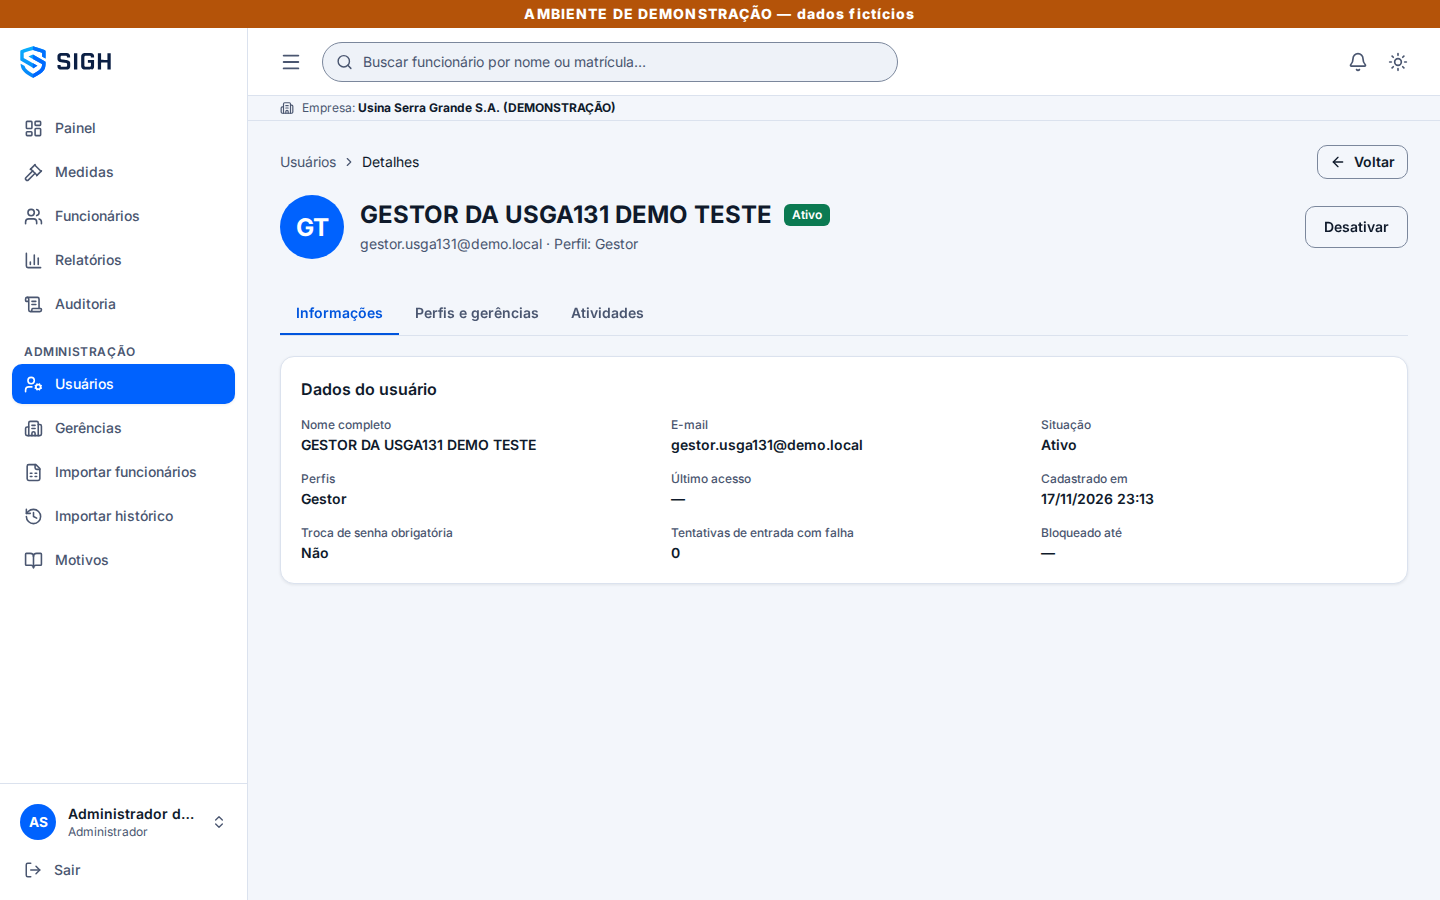
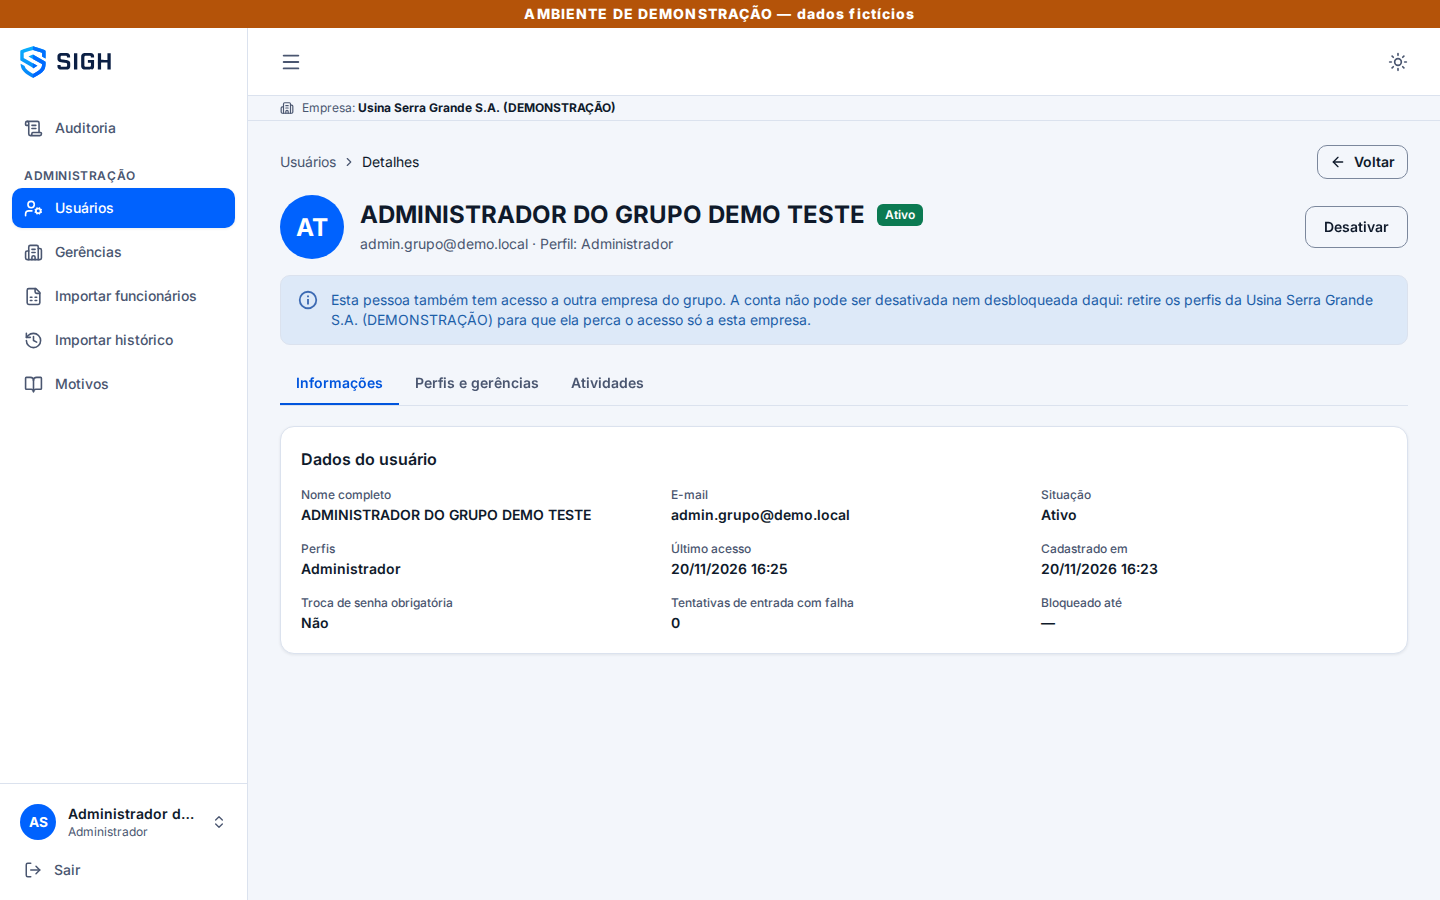
docs: README (matriz de perfis, conta sem senha, primeiro administrador, recuperação) e capturas do administrador; tsbuildinfo no .gitignore

diff --git a/README.md b/README.md
@@ -130,9 +130,13 @@ Abra **http://localhost:8080** (Chrome ou Edge). A senha dos usuários abaixo é
 | `preposto@demo.local` | USGA · RH – Registro + RH – Aprovador | A fila de aprovação e as próprias medidas (não aprova as que ele mesmo registrar) |
 | `admin.usga@demo.local`, `auxiliar.usga@demo.local`, `encarregado.usga@demo.local`, `gestor.usga131@demo.local` | USGA · Administrador, RH – Registro, RH – Aprovador, Gestor da USGA131 | Os mesmos papéis acima, com o nome da empresa na faixa do topo |
 | `admin.grupo@demo.local` | **USGA e Trapiche** · Administrador | O seletor **Empresa**; em **Todas**, **Usuários** com a coluna Empresa e as telas de importação só para consulta (lotes das duas empresas com a coluna Empresa e o aviso **"Selecione uma empresa"**, sem envio de arquivo) |
-| `admin.trap@demo.local` | Trapiche · Administrador | Só os usuários e os dados da Trapiche; em **Usuários → Novo usuário** com o e-mail de alguém da USGA, a opção **Vincular este usuário à Trapiche** |
+| `admin.trap@demo.local` | Trapiche · Administrador | Só os usuários da Trapiche; em **Usuários → Novo usuário** com o e-mail de alguém da USGA, a opção **Vincular este usuário à Trapiche** |
 | `auxiliar.trap@demo.local`, `encarregado.trap@demo.local`, `gestor.trap131@demo.local` | Trapiche · RH – Registro, RH – Aprovador, Gestor da TRAP131 | As medidas e os funcionários fictícios da Trapiche (TRAP131/TRAP132) |
-| `admin@demo.local` | USGA · Administrador | Pede a troca de senha no primeiro acesso; o **Painel** e, em **Administração**, Usuários, Gerências, Importar funcionários, Importar histórico e Motivos. Não registra nem aprova medidas |
+| `admin@demo.local` | USGA · Administrador | Ninguém conhece a senha: no primeiro uso, abra no Mailpit o e-mail **"Acesso de administrador no SIGH"** e defina a senha pelo link. Depois, **Auditoria de acesso** e, em **Administração**, Usuários, Gerências, Importar funcionários, Importar histórico e Motivos. **Nenhuma** tela de funcionários, medidas, painel ou relatórios |
+
+Os administradores (`admin@`, `admin.usga@`, `admin.grupo@`, `admin.trap@`) só gerenciam **acessos**: não veem
+funcionários, medidas, anexos, painel, relatórios, exportações, avisos nem a auditoria de medidas (a API responde 403).
+Continuam importando funcionários e histórico.
 
 Os dados de demonstração da **USGA** têm 40 funcionários fictícios, o **histórico disciplinar fictício** importado da
 planilha de penalidades (14 registros, com o selo "Histórico importado") e 8 medidas do SIGH em todos os estados
@@ -207,22 +211,23 @@ Segredos **não** ficam nos `appsettings*.json`. Sem configuração válida a AP
 | `ConnectionStrings:DefaultConnection` | sim | — |
 | `JwtOptions:SecretKey` | sim | pelo menos 32 bytes (UTF-8) |
 | `JwtOptions:Issuer` / `JwtOptions:Audience` | sim | já definidos no `appsettings.json` |
-| `Seed:AdminEmail` / `Seed:AdminPassword` | para criar o admin inicial | o admin nasce com troca de senha obrigatória |
+| `Seed:CompanyAdmins:N:CompanyCode` / `Email` / `Name` | para criar o primeiro administrador de cada empresa | sem senha: recebe o link de definição por e-mail (veja "Primeiro administrador de cada empresa") |
+| `Auth:AllowedEmailDomains:N` | não | domínios aceitos em contas novas; padrão `usga.com.br` |
 
 Em desenvolvimento, use user-secrets:
 ```bash
 cd SIGH/backend/src/SIGH.Api
 dotnet user-secrets set "ConnectionStrings:DefaultConnection" "Server=localhost,1433;Database=SIGH_DB;User Id=sa;Password=<senha do .env>;TrustServerCertificate=True;"
 dotnet user-secrets set "JwtOptions:SecretKey" "$(openssl rand -base64 48)"
-dotnet user-secrets set "Seed:AdminPassword" "<senha inicial do admin>"
-dotnet run
+dotnet user-secrets set "Seed:AdminEmail" "<seu e-mail>@usga.com.br"   # primeiro administrador da USGA
+dotnet run   # o link de definição de senha chega ao Mailpit (http://localhost:8025)
 ```
 Em CI/produção, use variáveis de ambiente (`ConnectionStrings__DefaultConnection`, `JwtOptions__SecretKey`, …; veja `.env.example`).
 
 O Swagger estará acessível em: `http://localhost:5000/swagger` ou `https://localhost:5001/swagger`.
 
-#### Troca de senha no primeiro acesso
-Usuários com troca de senha pendente recebem um access token com a claim `pwd_change_required: "true"`.
+#### Troca de senha obrigatória
+Contas com troca de senha pendente (hoje, só as de bancos antigos, criadas com senha pelo seed de antes) recebem um access token com a claim `pwd_change_required: "true"`.
 Com ele, qualquer endpoint autenticado responde **403** (ProblemDetails com `"code": "PASSWORD_CHANGE_REQUIRED"`),
 exceto `POST /api/v1/auth/change-password`, `POST /api/v1/auth/logout`, `POST /api/v1/auth/refresh` e `GET /api/v1/auth/me`.
 
@@ -274,14 +279,65 @@ Em desenvolvimento a API usa o Mailpit. Para ver os e-mails:
   Codespace, defina a URL pública da porta 3000:
   `dotnet user-secrets --project SIGH/backend/src/SIGH.Api set "App:PublicBaseUrl" "https://<codespace>-3000.app.github.dev"`.
 
-#### Senha inicial e "esqueci a senha"
-- Ao criar um usuário (`POST /api/v1/users`), a senha inicial é **opcional e desaconselhada**: a pessoa recebe por e-mail
-  um link de uso único (válido por `Auth:AccountSetupTokenHours`, 72 h) para **definir a própria senha**. O e-mail nunca
-  contém senha. Se o administrador informar uma senha inicial, ela precisa ser passada por outro canal e a troca continua
-  obrigatória no primeiro login.
+#### O administrador nunca conhece a senha
+- **Criação de usuário sem senha** (`POST /api/v1/users`): não há campo de senha (um `initialPassword` enviado por um
+  cliente antigo é ignorado). A conta nasce com uma senha aleatória que ninguém conhece e a pessoa recebe por e-mail um
+  link de **uso único**, válido por **48 h** (`Auth:AccountSetupTokenHours`), para definir a própria senha. O token é
+  guardado **só como hash** (SHA-256); o e-mail nunca contém senha.
+- **Reenvio**: na tela do usuário, **Reenviar link de definição de senha** (`POST /api/v1/users/{id}/setup-link`,
+  permissão `Users.Create`), só para quem ainda não definiu a senha. O link anterior deixa de valer. Quem já definiu a
+  senha usa "Esqueci minha senha". Registrado na auditoria (`Security.AccountSetupLinkSent`).
+- **Domínios**: contas novas só com e-mail `@usga.com.br` (`Auth:AllowedEmailDomains:0`, `:1`...; subdomínio não vale).
+  A demonstração (`compose.app.yml`) aceita também os domínios fictícios dos testes (`demo.local`, `e2e.local`,
+  `sigh.local`, `sigh.com.br`); os testes de integração, `sigh.com`, `sigh.test` e `demo.local`. Vincular à empresa uma
+  conta que já existe não depende do domínio.
 - `POST /api/v1/auth/forgot-password` sempre responde a mesma mensagem (sem revelar se o e-mail existe), com rate limit
   próprio. O link (`/reset-password?token=...`) é de uso único, guardado como hash e vale `Auth:PasswordResetTokenMinutes`
   (30 min). Depois do reset, todas as sessões e refresh tokens do usuário são revogados.
+
+#### Primeiro administrador de cada empresa
+Na publicação, `Seed:CompanyAdmins` (lista de `{ CompanyCode, Email, Name }`) é lida no startup, junto com o seed (`Database:ApplyMigrationsOnStartup`). Para cada empresa que
+**não tiver nenhum Administrador vigente** (perfil vigente agora e conta ativa, aguardando o primeiro acesso ou
+bloqueada), o SIGH cria a conta, se o e-mail ainda não existir, **só com o perfil Administrador naquela empresa** e envia
+o link de definição de senha (e-mail "Acesso de administrador no SIGH - <empresa>"). Se a conta já existe (a mesma
+pessoa em outra empresa), ela só recebe o perfil. Empresa que já tem administrador não muda. Cada concessão é registrada
+na auditoria (`Security.CompanyAdminProvisioned`, origem "publicação"). E-mail fora dos domínios aceitos é recusado
+(registrado no log; o startup não cai).
+
+```json
+"Seed": {
+  "CompanyAdmins": [
+    { "CompanyCode": "USGA", "Email": "ti.sigh@usga.com.br", "Name": "Administrador do Sistema" },
+    { "CompanyCode": "TRAP", "Email": "ti.sigh@usga.com.br" }
+  ]
+}
+```
+
+As chaves antigas continuam valendo e usam o mesmo mecanismo: `Seed:AdminEmail` vira a entrada da USGA e
+`Seed:Companies:<código>:AdminEmail` a da empresa. `Seed:AdminPassword` e `Seed:Companies:<código>:AdminPassword` são
+ignoradas (aviso no log). Bancos existentes não mudam: a empresa já tem administrador. Testes: `AdministratorAccountsTests`.
+
+#### Recuperação de administrador
+Se uma empresa ficar sem administrador (ou ele perder o acesso), o TI concede o perfil **pela linha de comando no
+servidor**, com a mesma configuração da API (connection string etc.):
+
+```bash
+dotnet SIGH.Api.dll admin-recover --company TRAP --email pessoa@usga.com.br [--name "Nome completo"]
+# na stack em containers:
+docker compose -p sigh-local -f compose.app.yml exec api dotnet SIGH.Api.dll admin-recover --company TRAP --email pessoa@usga.com.br
+```
+
+- Concede o perfil Administrador naquela empresa (mesmo que ela já tenha outro), cria a conta se o e-mail não existir,
+  reativa a conta se estiver inativa e envia o link de definição de senha (48 h, uso único). O e-mail sai pela outbox,
+  enviada pela API em execução.
+- **Só existe na linha de comando**: não há endpoint (o teste `AdminRecover_HasNoHttpEndpoint` confere).
+- Registrado na auditoria (`Security.AdministratorRecovered`, origem **"linha de comando"**, sem usuário).
+- Saída: 0 (feito), 1 (uso incorreto), 2 (recusado: empresa inexistente ou e-mail fora dos domínios aceitos).
+
+#### Alerta de administrador
+Na tela **Usuários**, um alerta aparece quando a empresa ativa tem **um só Administrador vigente**, ou quando o acesso
+do último termina em **menos de 15 dias** (`GET /api/v1/users/admin-status`). Continua valendo: ninguém altera os
+próprios perfis, e o último Administrador ativo não pode ser retirado nem desativado.
 
 #### Várias abas
 O refresh é serializado entre abas (Web Locks + BroadcastChannel no front) e o backend tolera, por
@@ -300,14 +356,13 @@ lotes de importação, avisos, auditoria e administradores. O e-mail (todos @usg
 | --- | --- | --- |
 | `Seed:Companies:<código>:Name` | `Trapiche` | nome de exibição; só vale na criação (depois é editável no banco) |
 | `Seed:Companies:<código>:ManagementUnitPrefix` | `TRAP` | prefixo das Chaves Organização da empresa (`TRAP131`) |
-| `Seed:Companies:<código>:AdminEmail` | `admin.trap@usga.com.br` | primeiro administrador da empresa |
-| `Seed:Companies:<código>:AdminPassword` | — | **só** por user-secrets ou variável de ambiente (`Seed__Companies__TRAP__AdminPassword`) |
+| `Seed:CompanyAdmins:N:CompanyCode` / `Email` / `Name` | `TRAP` / `admin.trap@usga.com.br` | primeiro administrador da empresa, sem senha (veja "Primeiro administrador de cada empresa") |
 
 - O seed cria só o que falta: a USGA usa o Id da antiga empresa padrão (`00000000-…-0001`); a Trapiche, o Id
   `00000000-…-0002`. Nenhum nome jurídico é inventado: a Trapiche nasce como "Trapiche", com o nome editável.
-- **Primeiro administrador**: criado com troca de senha obrigatória no primeiro acesso, como o da USGA
-  (`Seed:AdminEmail`/`Seed:AdminPassword` continuam valendo para a USGA). Se o e-mail já existe (a mesma pessoa
-  administra as duas), ela só recebe o perfil Administrador na empresa nova. Empresa que já tem administrador não muda.
+- **Primeiro administrador**: por `Seed:CompanyAdmins`, com o link de definição de senha por e-mail (ninguém conhece a
+  senha). Se o e-mail já existe (a mesma pessoa administra as duas), ela só recebe o perfil Administrador na empresa
+  nova. Empresa que já tem administrador não muda.
 - **Gerências**: as da USGA vêm de `Seed:ManagementUnits` (sem mudança). A Trapiche começa **sem** gerências: a primeira
   importação de funcionários cria as dela, com o código como nome (os códigos reais ainda serão levantados).
 - **Migration `MultiCompany`**: tudo o que existia (perfis, usuários, motivos, lotes, estado do histórico, auditoria)
@@ -352,8 +407,9 @@ lotes de importação, avisos, auditoria e administradores. O e-mail (todos @usg
 - **Funcionários**: matrícula única por empresa e regra de CPF dentro de cada empresa — a mesma pessoa pode existir nas
   duas, com cadastros e históricos separados.
 - **Avisos e e-mails** vão só para quem tem o perfil na empresa da medida, e o e-mail cita o nome da empresa (nunca o
-  nome nem o CPF do funcionário). **Auditoria**: cada registro grava a empresa; o administrador e o jurídico veem só as
-  empresas em que têm `Audit.View`; eventos sem empresa (login) só para quem tem escopo total em todas.
+  nome nem o CPF do funcionário). **Auditoria**: cada registro grava a empresa; o jurídico vê só as empresas em que tem
+  `Audit.View` (eventos sem empresa, como login, só com escopo total em todas); o administrador vê só a **auditoria de
+  acesso** (`Audit.ViewAccess`) das empresas dele.
 
 **Desenho técnico**: as permissões **não** vão mais no token. A cada requisição o `CompanyContext` lê do banco os
 perfis vigentes do usuário por empresa (uma consulta, memorizada na requisição), valida o `X-SIGH-Company` e o
@@ -429,18 +485,27 @@ o acusado, ocorrências, investigação, decisão submetida; na aprovação: apr
 |---|:-:|:-:|:-:|:-:|:-:|
 | Users.View / Create / ChangeStatus / Unlock / ManageRoles | ✔ | | | | |
 | ManagementUnits.Manage | ✔ | | | | |
-| Disciplinary.InfractionTypes.* | ✔ | | | | |
-| Employees.View | ✔ | ✔ | ✔ | ✔ | ✔ |
+| Disciplinary.InfractionTypes.* (motivos) | ✔ | | | | |
+| Audit.ViewAccess (auditoria de acesso) | ✔ | | | | |
 | Employees.Import | ✔ | | | | |
-| Disciplinary.Records.View | ✔ | ✔ | ✔ | ✔ | ✔ (só as gerências dele) |
-| Disciplinary.Records.ViewAll (escopo total) | ✔ | ✔ | ✔ | ✔ | |
+| Disciplinary.History.Import | ✔ | | | | |
+| Employees.View | | ✔ | ✔ | ✔ | ✔ |
+| Disciplinary.Records.View | | ✔ | ✔ | ✔ | ✔ (só as gerências dele) |
+| Disciplinary.Records.ViewAll (escopo total) | | ✔ | ✔ | ✔ | |
 | Disciplinary.Records.Register | | ✔ | | | |
 | Disciplinary.Records.Approve | | | ✔ | | |
 | Disciplinary.Cases.AddEvidence | | ✔ | ✔ | | |
 | Disciplinary.Cases.RemoveEvidence | | | ✔ | | |
-| Disciplinary.Reports.* (5) | ✔ | ✔ | ✔ | ✔ | ✔ |
-| Notifications.View / Read | ✔ | ✔ | ✔ | | |
-| Audit.View | ✔ | | | ✔ | |
+| Disciplinary.Reports.* (4: painel, relatório, histórico, exportação) | | ✔ | ✔ | ✔ | ✔ |
+| Notifications.View / Read | | ✔ | ✔ | | |
+| Audit.View (trilha completa) | | | | ✔ | |
+
+Os perfis valem por empresa (a mesma matriz na USGA e na Trapiche). O **Administrador só gerencia acessos**: usuários,
+perfis e gerências de usuários, gerências, motivos e a auditoria de acesso, e continua importando funcionários e
+histórico (decisão do cliente). Ele não lê funcionários, medidas, anexos, relatórios, painel, exportações, avisos nem a
+auditoria de medidas: toda rota que exige outra permissão responde **403** (`AdministratorWithoutDataTests`, uma linha
+por rota, lida dos controllers). O seed retira as permissões que sobram em bancos existentes. Os outros quatro perfis
+não mudaram (teste de unidade com a lista de antes).
 
 As permissões de cada perfil ficam em `SystemRoles` e o seed as sincroniza a cada inicialização (o que sobra é
 retirado logicamente); não há tela para editá-las. Perfis e gerências de um usuário têm validade opcional
@@ -471,6 +536,12 @@ segurança (login, falha, bloqueio, troca/redefinição de senha, logout, reuso 
 download de evidência) são gravados explicitamente. Senhas, hashes de token, segredos, caminho do storage, CPF e conteúdo
 de arquivo nunca são gravados (`AuditPolicy`). A trilha só recebe inserções. Consulta: `GET /api/v1/audit-logs`
 (permissão `Audit.View`) e `GET /api/v1/disciplinary-cases/{id}/audit-trail`.
+**Auditoria de acesso** (`Audit.ViewAccess`, do Administrador): `GET /api/v1/audit-logs/access` e
+`GET /api/v1/audit-logs/access/users`. Só contas, perfis, gerências de usuários, gerências, motivos e eventos de
+segurança (login, senha, bloqueio, link de definição de senha, primeiro administrador, recuperação pelo TI), das empresas
+em que ele tem a permissão; eventos sem empresa (login) entram se forem de uma pessoa ligada a essas empresas. Nada de
+funcionário, medida, anexo (nem o download) ou importação, e sem a busca por medida ou matrícula. Na tela, "Auditoria de
+acesso".
 Na tela, a busca é por número da medida (`reference=MED-…`, traz a medida e as subentidades) ou matrícula
 (`reference=50090006`), e o usuário é escolhido pelo nome (`GET /api/v1/audit-logs/users?search=`). Campos e valores
 aparecem em português (datas em dd/MM/aaaa HH:mm de Maceió, Sim/Não, "(oculto)" para `[redacted]`, "—" para vazio);
